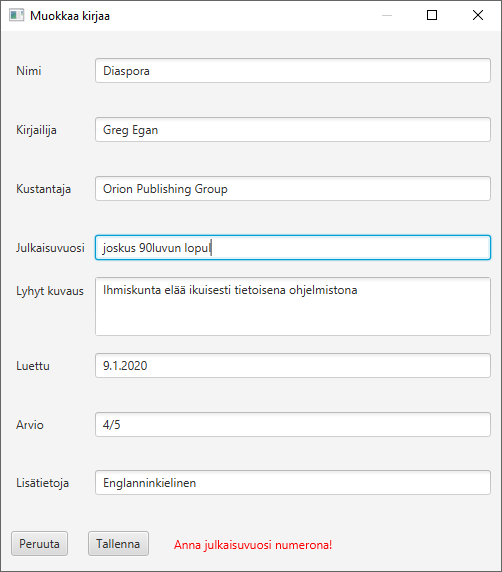
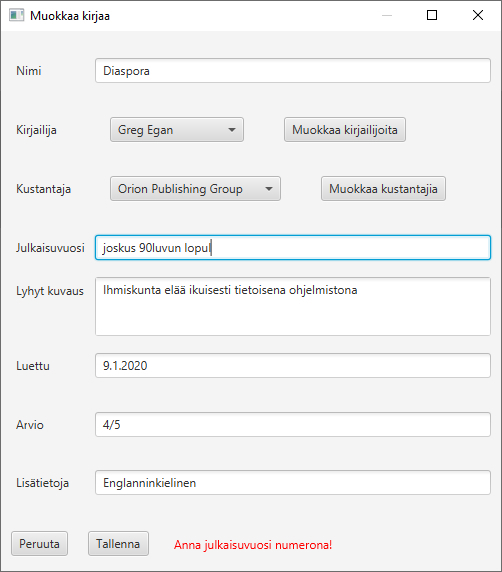
ht3 korjaukset

diff --git a/src/fxKirjat/KirjatGUIController.java b/src/fxKirjat/KirjatGUIController.java
@@ -83,4 +83,20 @@ public class KirjatGUIController {
                 KirjatGUIController.class.getResource("TulostaView.fxml"),
                 "Tulosta", null, "");
     }
+
+
+    @FXML
+    void handleKirjailija() {
+        ModalController.showModal(
+                KirjatGUIController.class.getResource("KirjailijaView.fxml"),
+                "Kirjailijat", null, "");
+    }
+
+
+    @FXML
+    void handleKustantaja() {
+        ModalController.showModal(
+                KirjatGUIController.class.getResource("KustantajaView.fxml"),
+                "Kustantajat", null, "");
+    }
 }
